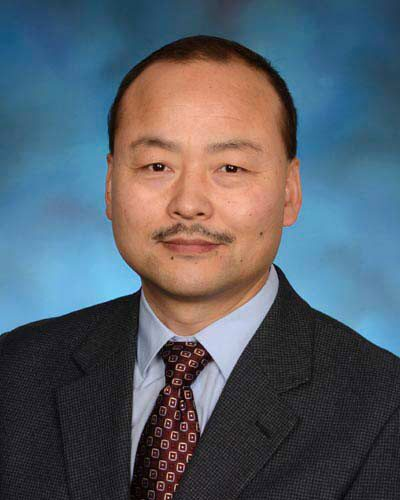
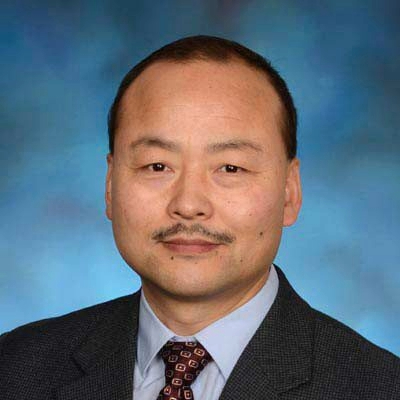
added coaches

diff --git a/src/routes/team/+page.svelte b/src/routes/team/+page.svelte
@@ -3,7 +3,20 @@
 </svelte:head>
 
 <script lang="ts">
+	import coachdai from '$lib/assets/team/coachdai.jpeg';
+    import erik from '$lib/assets/team/erik.jpg';
+    import johnathan from '$lib/assets/team/jonathan.jpeg';
+    import nathan from '$lib/assets/team/nathan.jpeg';
+    import max from '$lib/assets/team/max.jpg'
+    import coachwan from '$lib/assets/team/john.jpg';
+    import sherry from '$lib/assets/team/sherry1.jpg'
+    import vincent from '$lib/assets/team/vincent.jpg'
+    import zilong from '$lib/assets/team/zilong.jpg'
+    import constance from '$lib/assets/team/constance.jpg'
+    import mentorzhang from '$lib/assets/team/baoshe.jpg'
+    import niko from '$lib/assets/team/niko.jpg'
 	import Header from '$lib/components/header.svelte';
+	
 </script>
 <div class="header-container">
 	<Header/>
@@ -16,7 +29,33 @@
 	<div class="team-members">
 		<div class="coaches">
 			<div class="left-coaches">
-				
+				<h1 class="team-title">Coaches</h1>
+				<p class="team-desc">
+					placeholder
+				</p>
+			</div>
+			<div class="right-coaches">
+				<div class="person">
+					<img src={coachdai} alt="Coach Dai" class="person-avatar"/>
+					<div>
+						<h3>Coach Dai</h3>
+						<p>Head Coach</p>
+					</div>
+				</div>
+				<div class="person">
+					<img src={coachwan} alt="Coach Wan" class="person-avatar"/>
+					<div>
+						<h3>Coach Wan</h3>
+						<p>Assistant Coach</p>
+					</div>
+				</div>
+				<div class="person">
+					<img src={mentorzhang} alt="Mentor Zhang" class="person-avatar"/>
+					<div>
+						<h3>Mentor Zhang</h3>
+						<p>Software Mentor</p>
+					</div>
+				</div>
 			</div>
 		</div>
 	</div>
@@ -38,6 +77,38 @@
 	.title {
 		text-align: center;
 		margin-bottom: 2rem;
+	}
+	.coaches {
+		display: grid;
+
+		grid-template-columns: 1fr 1fr;
+	}
+	.left-coaches {
+		text-align: center;
+		font-weight: 700;
+	}
+	.team-title {
+		font-size: 5em;
+		margin-bottom: 0.75rem;
+	}
+	.team-desc {
+		margin-top: .75rem;
+		font-size: 1.5em;
+	}
+	.right-coaches {
+		display: flex;
+		flex-direction: row;
+		align-items: center;
+		justify-content: center;
+	}
+	.person{
+		flex: 1;
+		text-align: center;
+	}
+	.person-avatar {
+		width: 60%;
+		height: auto;
+		border-radius: 50%;
 	}
 	#meet-the-team {
 		margin-bottom: 0.1rem;
